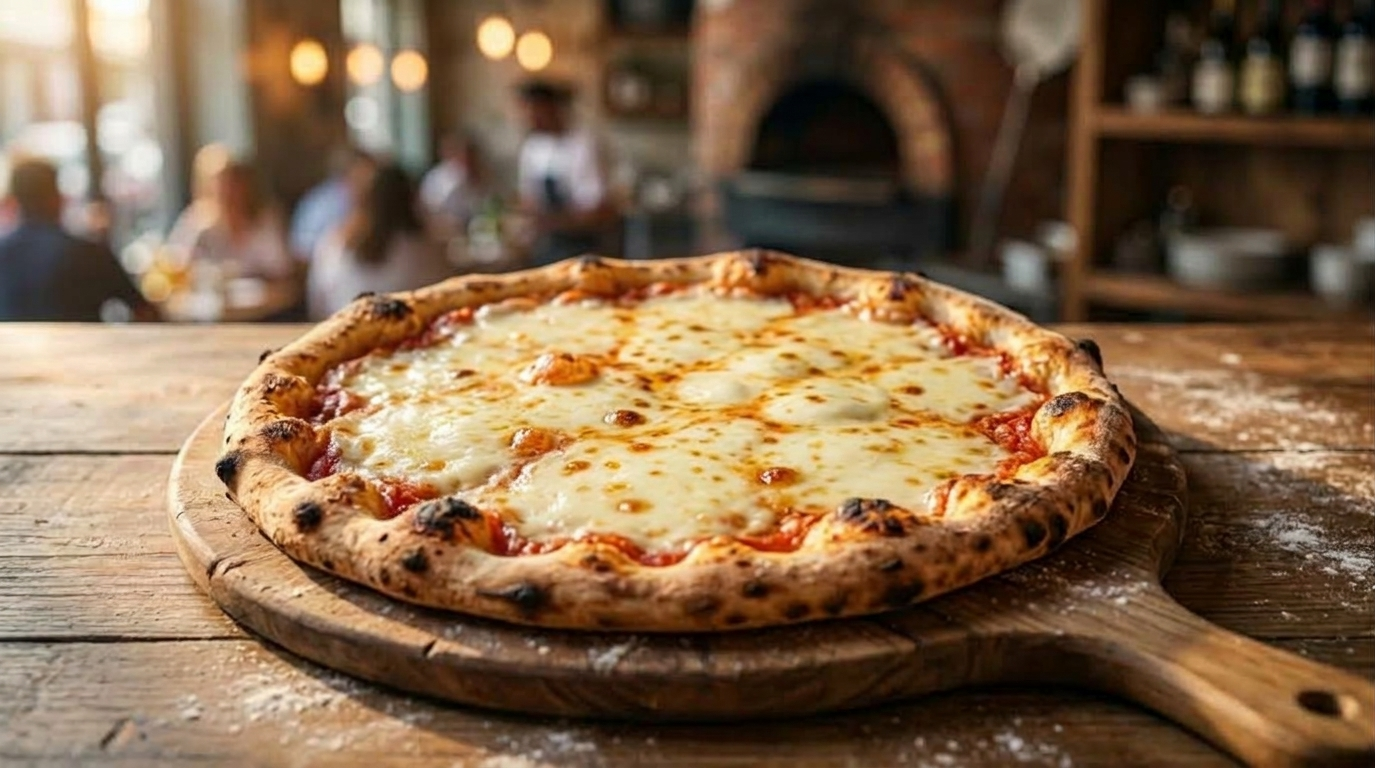
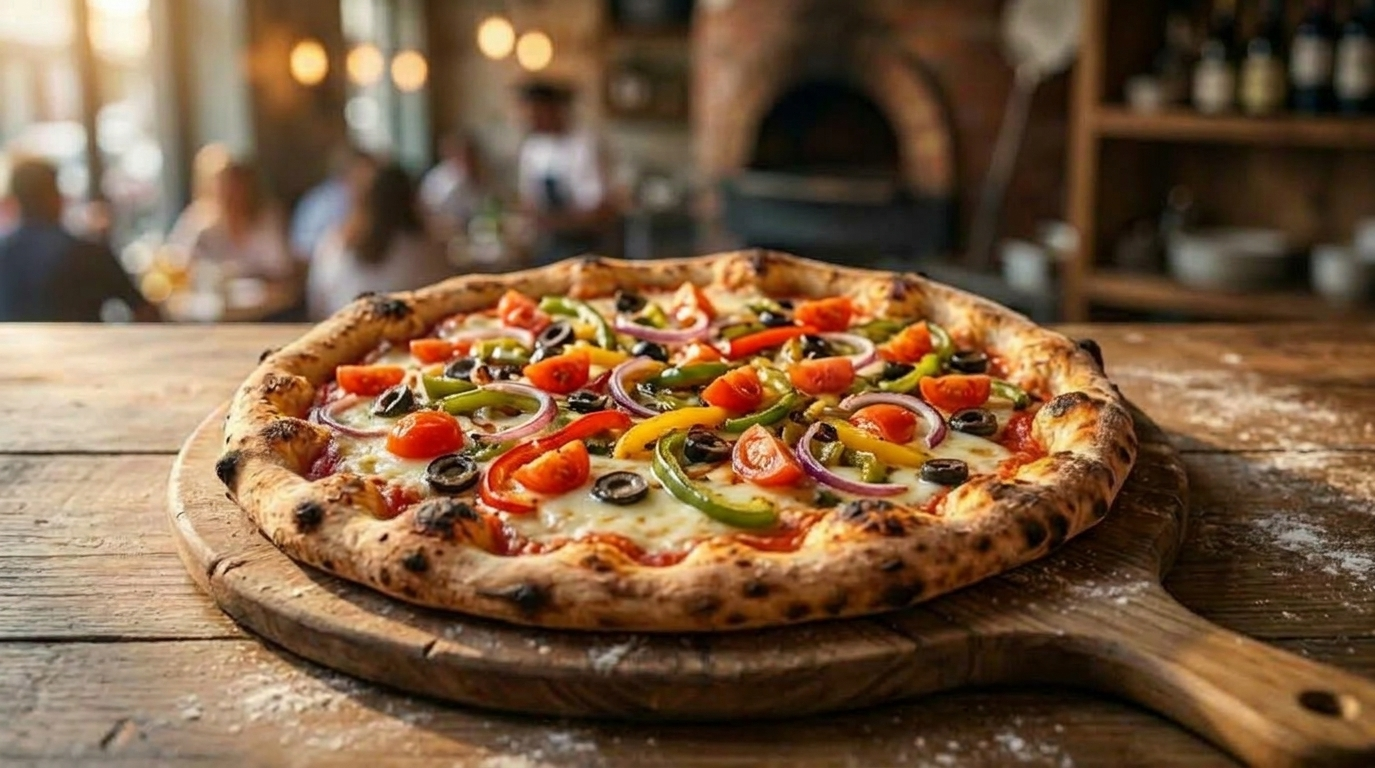
Add photos burger

Changed region(s): [[0.1833, 0.3438, 0.8247, 0.7188], [0.9164, 0.6875, 1.0, 0.7812], [0.9775, 0.625, 1.0, 0.6562]]

diff --git a/src/lib/menu.ts b/src/lib/menu.ts
@@ -40,14 +40,14 @@ const img = {
   saladsChickenSalad: IMG, // Chicken Salad
   saladsSpecialSalad: IMG, // Special Salad
   // smash-burger
-  smashBurgerChicagoClassicDouble: IMG, // Chicago Classic (Double)
-  smashBurgerChicagoClassicTriple: IMG, // Chicago Classic (Triple)
-  smashBurgerMilwaukeeCheeseDouble: IMG, // Milwaukee Cheese (Double)
-  smashBurgerMilwaukeeCheeseTriple: IMG, // Milwaukee Cheese (Triple)
-  smashBurgerPortlandShroomerDouble: IMG, // Portland Shroomer (Double)
-  smashBurgerPortlandShroomerTriple: IMG, // Portland Shroomer (Triple)
-  smashBurgerNewYorkHotspotDouble: IMG, // New York Hotspot (Double)
-  smashBurgerNewYorkHotspotTriple: IMG, // New York Hotspot (Triple)
+  smashBurgerChicagoClassicDouble: "/images/burger/b1.png", // Chicago Classic (Double)
+  smashBurgerChicagoClassicTriple: "/images/burger/b2.png", // Chicago Classic (Triple)
+  smashBurgerMilwaukeeCheeseDouble: "/images/burger/b3.png", // Milwaukee Cheese (Double)
+  smashBurgerMilwaukeeCheeseTriple: "/images/burger/b4.png", // Milwaukee Cheese (Triple)
+  smashBurgerPortlandShroomerDouble: "/images/burger/b3.png", // Portland Shroomer (Double)
+  smashBurgerPortlandShroomerTriple: "/images/burger/b3.png", // Portland Shroomer (Triple)
+  smashBurgerNewYorkHotspotDouble: "/images/burger/b3.png", // New York Hotspot (Double)
+  smashBurgerNewYorkHotspotTriple: "/images/burger/b3.png", // New York Hotspot (Triple)
   // chicken
   chicken9MegaStrips: IMG, // 9 Mega Strips
   chicken3MegaStrips: IMG, // 3 Mega Strips
